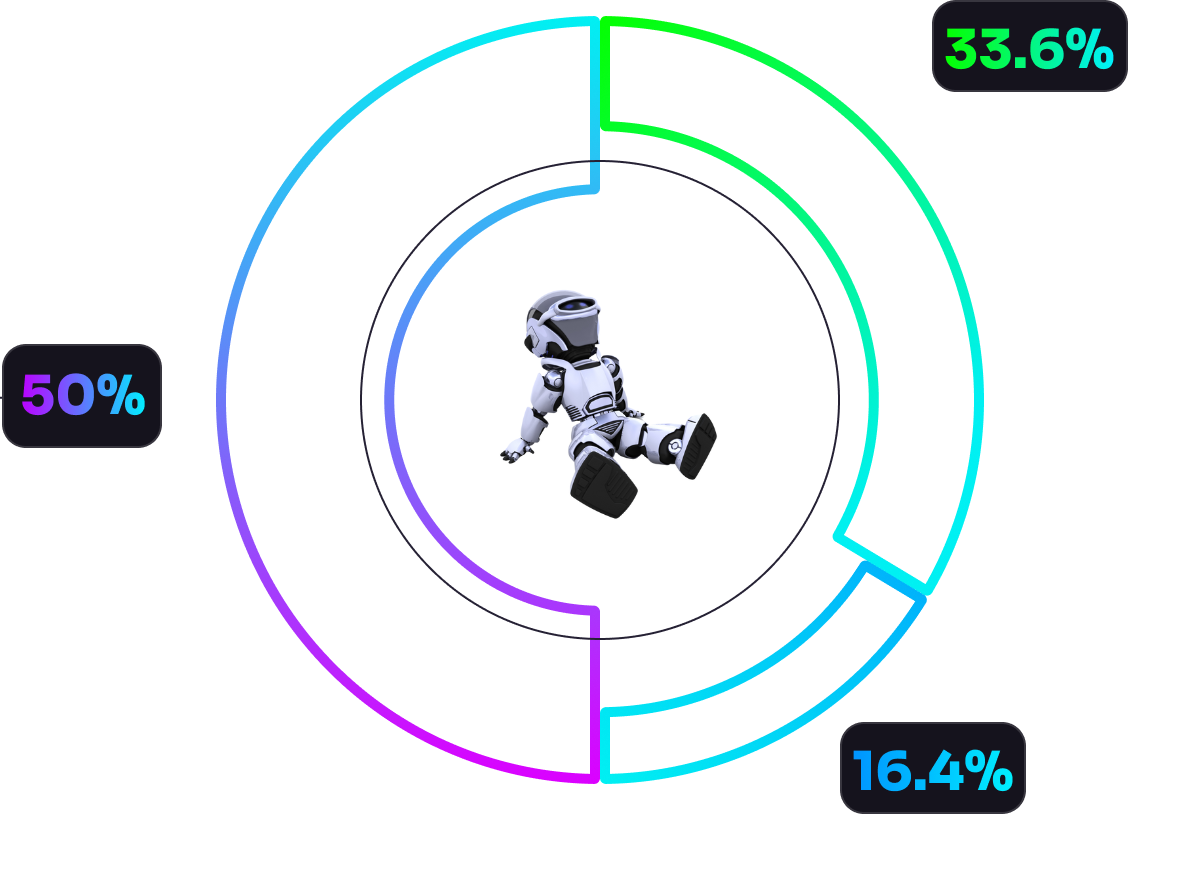
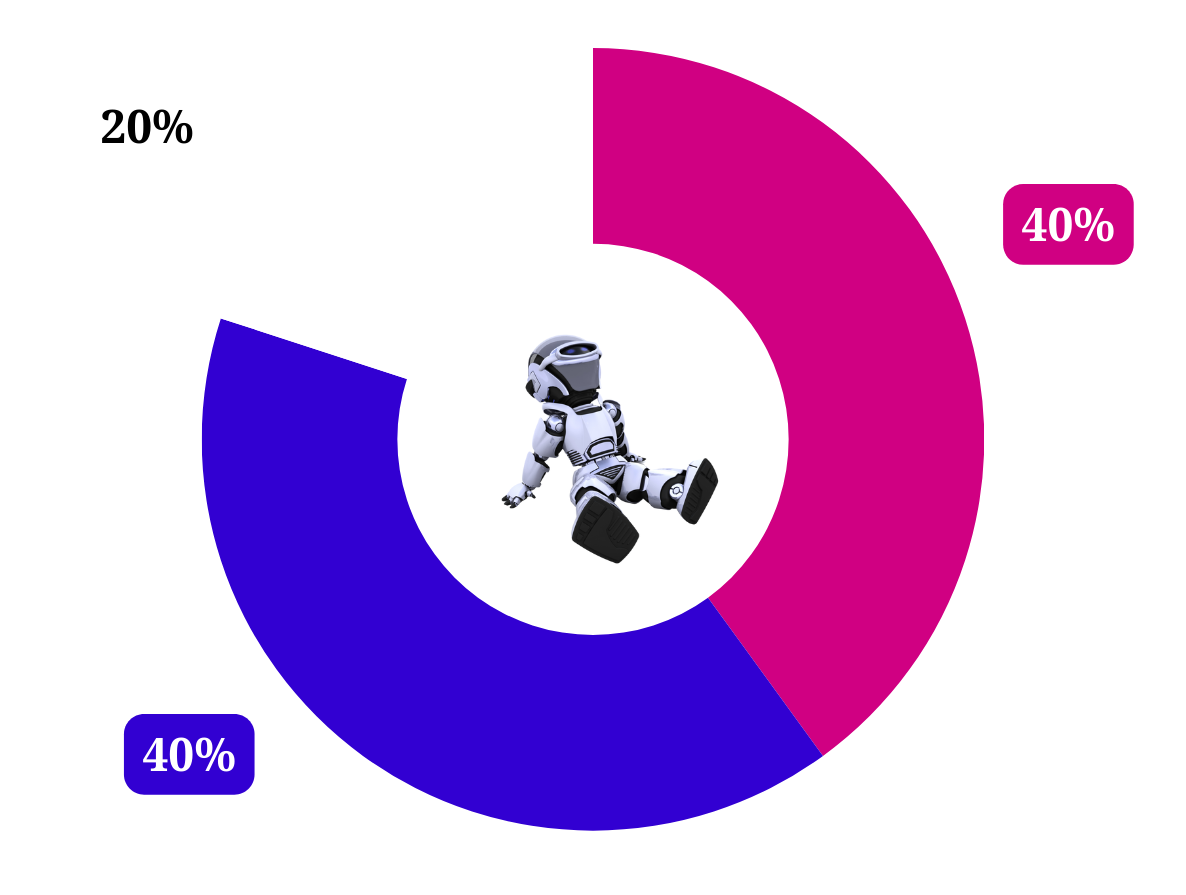
Change tokenomic

diff --git a/index.html b/index.html
@@ -2842,10 +2842,10 @@
 									data-id="68408a2" data-element_type="widget" data-widget_type="heading.default">
 									<div class="elementor-widget-container">
 										<span class="elementor-heading-title elementor-size-default">GrokBurn is not
-											just a part of Grok; we are focused on burning 50% of the tokens to create a
+											just a part of Grok; we are focused on burning 40% of the tokens to create a
 											stronger ecosystem. At the same time, we are heavily emphasizing strong
 											marketing campaigns for the core Grok project. GrokBurn represents the bold
-											fusion of Grok and a 50% token burn mechanism. Join us to see why $GROKBURN
+											fusion of Grok and a 40% token burn mechanism. Join us to see why $GROKBURN
 											will be the excellent choice for the future!</span>
 									</div>
 								</div>
@@ -2993,7 +2993,7 @@
 											data-widget_type="heading.default">
 											<div class="elementor-widget-container">
 												<span class="elementor-heading-title elementor-size-default">All
-													information about Safegrok</span>
+													information about GrokBurn</span>
 											</div>
 										</div>
 										<div class="elementor-element elementor-element-8a6beee elementor-icon-list--layout-traditional elementor-list-item-link-full_width elementor-widget elementor-widget-icon-list"
@@ -3013,7 +3013,8 @@
 																	d="M504 256c0 136.967-111.033 248-248 248S8 392.967 8 256 119.033 8 256 8s248 111.033 248 248zM227.314 387.314l184-184c6.248-6.248 6.248-16.379 0-22.627l-22.627-22.627c-6.248-6.249-16.379-6.249-22.628 0L216 308.118l-70.059-70.059c-6.248-6.248-16.379-6.248-22.628 0l-22.627 22.627c-6.248 6.248-6.248 16.379 0 22.627l104 104c6.249 6.249 16.379 6.249 22.628.001z">
 																</path>
 															</svg> </span>
-														<span class="elementor-icon-list-text">Tax 5/5</span>
+														<span class="elementor-icon-list-text">Tax 5/5 for Buyback and
+															Burn</span>
 													</li>
 												</ul>
 											</div>
